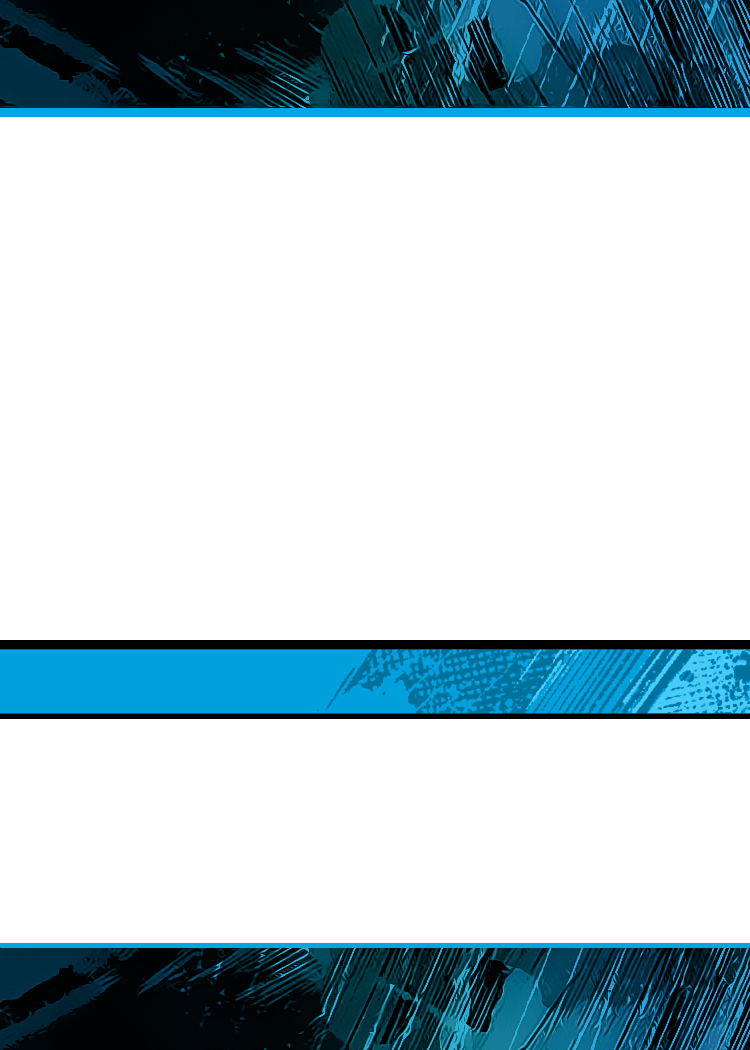
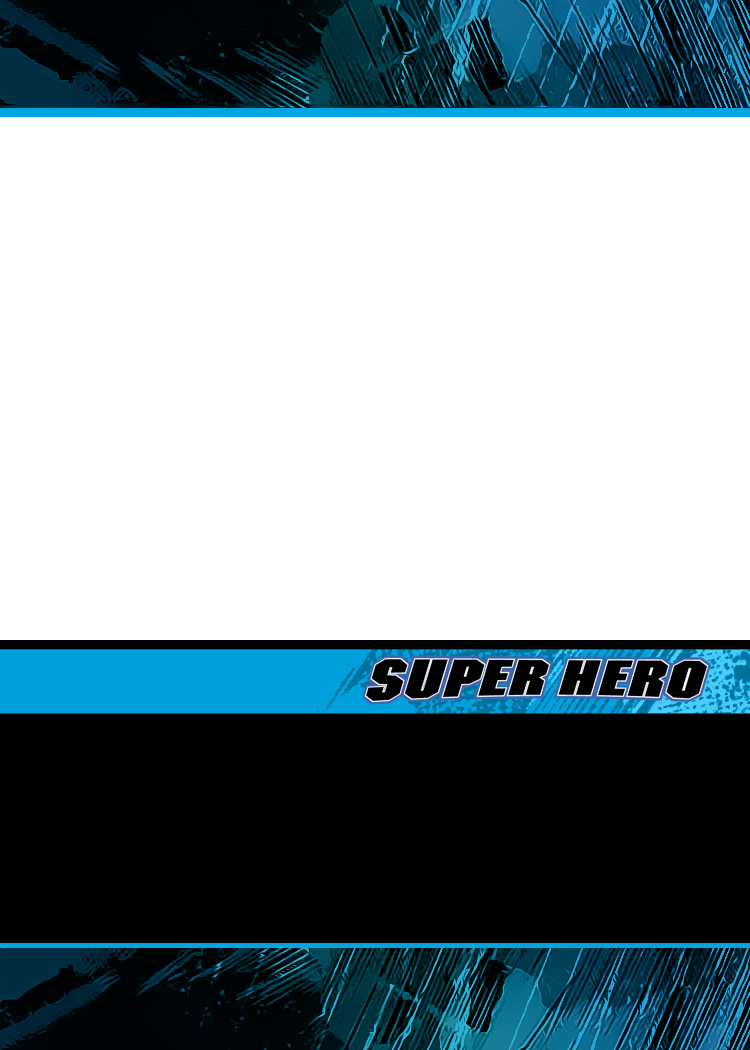
initial updates

Changed region(s): [[0.0, 0.6095, 1.0, 0.9143]]

diff --git a/src/gui/tabs/live-editor/live-editor-tables.ts b/src/gui/tabs/live-editor/live-editor-tables.ts
@@ -68,12 +68,13 @@ addTitlesTo(defaultsHeadings);
 export const defaultsRows: IRowValues[] = [
     {
         name: "__defaults__",
-        logoURL: "https://i.imgur.com/J6SuXcE.png",
-        set: "Teen Titans",
+        // logoURL: "https://i.imgur.com/J6SuXcE.png",
+        logoURL: "wot-logo2",
+        set: "Core",
         setTextColor: "#ffec34",
         setBackgroundColor: "#ed1c24",
-        copyright: "2015 CZE",
-        legal: "TEEN TITANS and all related character and elements are trademarks and © DC Comics\n(s15)",
+        copyright: "2023",
+        legal: "CORE and all related character and elements are trademarks and © Amazon\n(s15)",
         logoScale: 0.975,
     },
     /*{
@@ -91,7 +92,7 @@ export const cardsHeadings: IColumnData[] = [
     },
     {
         name: "Type",
-        allowedValues: ["Equipment", "Hero", "Location", "Starter", "Super Power", "Villain", "Weakness"],
+        allowedValues: ["Equipment", "Ally", "Location", "Starter", "Tactic", "Shadowspawn", "Weakness"],
     },
     {
         name: "Text",
@@ -117,7 +118,7 @@ export const cardsHeadings: IColumnData[] = [
         name: "Oversized",
         type: "boolean",
         transform: (checked: RowValue, row: IRowData) => {
-            if (checked && row.values.type !== "Hero" && row.values.type !== "Villain") {
+            if (checked && row.values.type !== "Ally" && row.values.type !== "Shadowspawn") {
                 return false;
             }
             return checked;
@@ -138,18 +139,18 @@ addTitlesTo(cardsHeadings);
 /** the rows for the custom cards table on the LiveEditorTable */
 export const cardsRows: IRowValues[] = [
     {
-        name: "Vulnerability",
+        name: "Fire Element",
         type: "Starter",
         text: "",
-        imageURL: "https://i.imgur.com/em2ZPJG.png",
[1 lines of base64/hex data omitted]
         vp: 0,
         cost: 0,
     },
     {
-        name: "Wonder Girl",
-        type: "Hero",
+        name: "Rand Al'thor",
+        type: "Ally",
         oversized: true,
-        imageURL: "https://i.imgur.com/RjNwCAX.png",
[1 lines of base64/hex data omitted]
         text: "Once during each of your turns, if you control two or more "
             + "Equipment, draw two cards and then discard a card.",
     },

diff --git a/src/cards/card/card.ts b/src/cards/card/card.ts
@@ -13,8 +13,8 @@ export const CARD_MAX_WIDTH = 900;
 /** The maximum height (in pixels) that a card can be (oversized) */
 export const CARD_MAX_HEIGHT = 1200;
 
-export type CardType = "Equipment" | "Hero" | "Location" | "Starter" |
-"Super Power" | "Villain" | "Weakness" | "Super Villain" | "Super Hero"
+export type CardType = "Equipment" | "Ally" | "Location" | "Starter" |
+"Tactic" | "Shadowspawn" | "Weakness" | "Shadow" | "Hero"
 
 
 /**
@@ -128,19 +128,19 @@ export class Card {
             }
         }
 
-        // special cases, we can take "Super Hero/Villain" as a type
+        // special cases, we can take "Hero/Shadow" as a type
         // (which is invalid) and make it the oversized version
-        if (this.type === "Super Hero") {
-            this.type = "Hero";
+        if (this.type === "Hero") {
+            this.type = "Ally";
             this.oversized = true;
         }
-        else if (this.type === "Super Villain") {
-            this.type = "Villain";
+        else if (this.type === "Shadow") {
+            this.type = "Shadowspawn";
             this.oversized = true;
         }
 
-        const isHeroOrVillain = this.type === "Hero" || this.type === "Villain";
-        if (this.oversized && !isHeroOrVillain) {
+        const isAllyOrShadowspawn = this.type === "Ally" || this.type === "Shadowspawn";
+        if (this.oversized && !isAllyOrShadowspawn) {
             this.oversized = false;
         }
 
@@ -299,8 +299,11 @@ export class Card {
 
         let backgroundType: string = this.type;
         if (this.variant || this.oversized) {
-            if (this.type === "Hero" || this.type === "Villain") {
-                backgroundType = `Super-${this.type}`;
+            if (this.type === "Ally") {
+                backgroundType = `Hero`;
+            }
+            else if (this.type === "Shadowspawn") {
+                backgroundType = `Shadow`;
             }
         }
         if (this.oversized) {
@@ -390,14 +393,6 @@ export class Card {
     }
 
     private getTypeName(): string {
-        // TODO: change types to ally/darkfriend
-        if (this.type === 'Hero') {
-            return "ALLY";
-        }
-        if (this.type === 'Villain') {
-            return "DARKFRIEND";
-        }
-
         return this.type.toUpperCase();
     }
 

diff --git a/src/cards/card/card-options.ts b/src/cards/card/card-options.ts
@@ -19,9 +19,9 @@ export const CardOptionsList: ICardOption[] = [
     {
         name: "Type",
         type: "text",
-        description: `The card type. Must be "Equipment", "Hero", "Location", `
-                   + `"Starter", "Super Power", "Villain", or "Weakness". `
-                   + `Alternatively "Super Hero" or "Super Villain" are `
+        description: `The card type. Must be "Equipment", "Ally", "Location", `
+                   + `"Starter", "Tactic", "Shadowspawn", or "Weakness". `
+                   + `Alternatively "Hero" or "Shadow" are `
                    + `shorthand for their oversized versions`,
     },
     {
@@ -29,15 +29,15 @@ export const CardOptionsList: ICardOption[] = [
         type: "checkbox",
         description: `If enabled, the card's textbox will be black instead of `
                    + `white, such as for the Villain Stack. If the type is `
-                   + `"Hero" or "Villain", then they also gain the special `
-                   + `"Super Hero/Villain" subtype. This option has no effect `
+                   + `"Ally" or "Shadowspawn", then they also gain the special `
+                   + `"Hero/Shadow" subtype. This option has no effect `
                    + `on Oversized card`,
     },
     {
         name: "Oversized",
         type: "checkbox",
         description: `If enabled, the card becomes an oversized player card. `
-                   + `This option is only valid for "Hero" and "Villain" types,`
+                   + `This option is only valid for "Ally" and "Shadowspawn" types,`
                    + ` and Sub Type, Cost, and Victory Points are ignored.`,
     },
     {

diff --git a/src/cards/card/card-styles.ts b/src/cards/card/card-styles.ts
@@ -29,7 +29,8 @@ const styles: {
             fill: "#000000",
             // fontFamily: "CompactaBT",
             // fontFamily: "Trebuchet MS",
-            fontFamily: "Arial Narrow",
+            // fontFamily: "Arial Narrow",
+            fontFamily: "Baskerville",
             fontSize: 32,
             lineJoin: "round",
         },
@@ -37,7 +38,8 @@ const styles: {
         cost: {
             fill: "#000000",
             // fontFamily: "CompactaBdBT",
-            fontFamily: "Arial Narrow",
+            // fontFamily: "Arial Narrow",
+            // fontFamily: "Herculanum",
             fontSize: 91.67,
             fontWeight: "bold",
             letterSpacing: 0.06,
@@ -52,7 +54,8 @@ const styles: {
             dropShadowColor: "#000000",
             dropShadowDistance: 12,
             fill: "#ffffff",
-            fontSize: 72,
+            // fontSize: 72,
+            fontSize: 64,
             letterSpacing: -2,
             padding: 100,
         },
@@ -108,7 +111,8 @@ const styles: {
         },
         name: {
             fill: "#ffc70e",
-            fontSize: 108.33,
+            // fontSize: 108.33,
+            fontSize: 80,
             letterSpacing: -1,
         },
         set: {
@@ -136,13 +140,13 @@ const styles: {
         },
     },
 
-    Hero: {
+    Ally: {
         name: {
             fill: "#00a5e3",
         },
     },
 
-    SuperPower: {
+    Tactic: {
         name: {
             fill: "#f77d27",
         },
@@ -151,7 +155,7 @@ const styles: {
         },
     },
 
-    Villain: {
+    Shadowspawn: {
         name: {
             fill: "#ed2122",
         },
